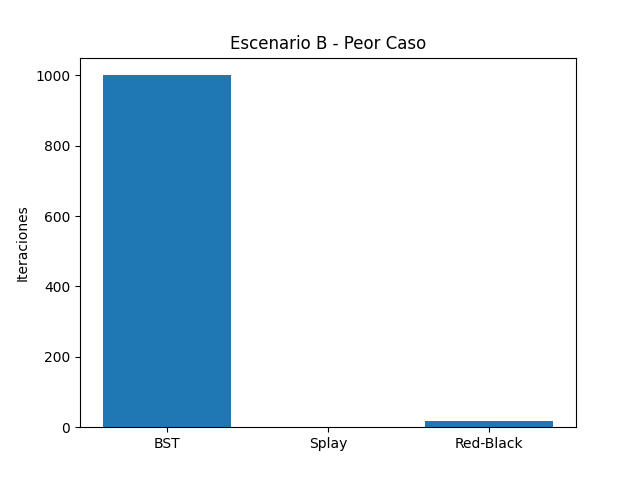
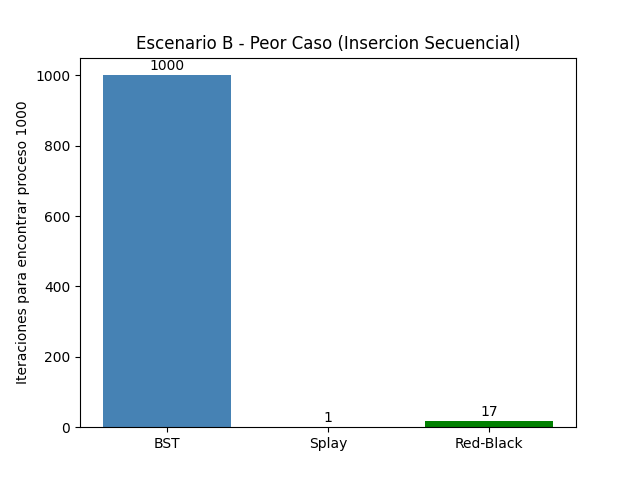
Grafica comparativa con promedios de los 3 escenarios y reemplazo de Graphviz por visualizacion con matplotlib para evitar dependencia externa

diff --git a/src/utils/visualization.py b/src/utils/visualization.py
@@ -1,40 +1,63 @@
 import matplotlib.pyplot as plt
-from graphviz import Digraph
+import matplotlib.patches as mpatches
+
+
+def _get_positions(node, x, y, gap, positions, edges, depth, max_depth, is_rb=False):
+    if node is None:
+        return
+    if is_rb and node.key is None:
+        return
+    if depth > max_depth:
+        return
+
+    positions[id(node)] = (x, y, node.key, getattr(node, "color", "BLUE"))
+
+    if node.left and (not is_rb or node.left.key is not None):
+        edges.append((x, y, x - gap, y - 1))
+        _get_positions(node.left, x - gap, y - 1, gap / 2,
+                       positions, edges, depth + 1, max_depth, is_rb)
+
+    if node.right and (not is_rb or node.right.key is not None):
+        edges.append((x, y, x + gap, y - 1))
+        _get_positions(node.right, x + gap, y - 1, gap / 2,
+                       positions, edges, depth + 1, max_depth, is_rb)
 
 
 def visualize_bst(tree, filename, title, is_rb=False):
-    dot = Digraph(comment=title)
-    dot.attr(rankdir="TB")
+    positions = {}
+    edges = []
 
-    def add_nodes(node, depth=0):
-        if node is None:
-            return
-        if is_rb and node.key is None:
-            return
-        if depth > 5:
-            return
+    _get_positions(tree.root, 0, 0, 8, positions, edges, 0, 5, is_rb)
 
-        label = str(node.key)
+    fig, ax = plt.subplots(figsize=(18, 8))
+    ax.set_title(title + " (primeros 6 niveles)", fontsize=13)
+    ax.axis("off")
+
+    for x1, y1, x2, y2 in edges:
+        ax.plot([x1, x2], [y1, y2], "k-", linewidth=0.8, zorder=1)
+
+    for node_id, (x, y, key, color) in positions.items():
         if is_rb:
-            color = "red" if node.color == "RED" else "black"
-            font_color = "white"
-            dot.node(str(id(node)), label, style="filled",
-                     fillcolor=color, fontcolor=font_color)
+            bg = "#c0392b" if color == "RED" else "#2c3e50"
+            text_color = "white"
         else:
-            dot.node(str(id(node)), label)
+            bg = "#2980b9"
+            text_color = "white"
 
-        if node.left:
-            if not is_rb or node.left.key is not None:
-                dot.edge(str(id(node)), str(id(node.left)))
-                add_nodes(node.left, depth + 1)
+        circle = plt.Circle((x, y), 0.35, color=bg, zorder=2)
+        ax.add_patch(circle)
+        ax.text(x, y, str(key), ha="center", va="center",
+                fontsize=6, color=text_color, zorder=3)
 
-        if node.right:
-            if not is_rb or node.right.key is not None:
-                dot.edge(str(id(node)), str(id(node.right)))
-                add_nodes(node.right, depth + 1)
+    if positions:
+        all_x = [v[0] for v in positions.values()]
+        all_y = [v[1] for v in positions.values()]
+        ax.set_xlim(min(all_x) - 1, max(all_x) + 1)
+        ax.set_ylim(min(all_y) - 1, max(all_y) + 1)
 
-    add_nodes(tree.root)
-    dot.render(f"results/{filename}", format="png", cleanup=True)
+    plt.tight_layout()
+    plt.savefig(f"results/{filename}.png", dpi=120)
+    plt.close()
     print(f"Arbol guardado en results/{filename}.png")
 
 
@@ -82,3 +105,42 @@ def plot_scenario_C(splay, rb):
 
     plt.savefig("results/scenario_C.png")
     plt.close()
+
+
+def plot_summary(promedios):
+    escenarios = [
+        "Escenario A\n(Aleatorio)", "Escenario B\n(Secuencial)", "Escenario C\n(Frecuente)"]
+    bst_vals = [promedios["A"]["bst"],   promedios["B"]
+                ["bst"],   promedios["C"]["bst"]]
+    splay_vals = [promedios["A"]["splay"], promedios["B"]
+                  ["splay"], promedios["C"]["splay"]]
+    rb_vals = [promedios["A"]["rb"],    promedios["B"]
+               ["rb"],    promedios["C"]["rb"]]
+
+    x = range(len(escenarios))
+    ancho = 0.25
+
+    fig, ax = plt.subplots(figsize=(10, 6))
+
+    barras_bst = ax.bar([i - ancho for i in x], bst_vals,
+                        width=ancho, label="BST",        color="steelblue")
+    barras_splay = ax.bar([i for i in x], splay_vals,
+                          width=ancho, label="Splay",       color="orange")
+    barras_rb = ax.bar([i + ancho for i in x], rb_vals,
+                       width=ancho, label="Red-Black",   color="green")
+
+    for barra in list(barras_bst) + list(barras_splay) + list(barras_rb):
+        altura = barra.get_height()
+        ax.text(barra.get_x() + barra.get_width() / 2, altura + 0.5,
+                f"{altura:.1f}", ha="center", va="bottom", fontsize=8)
+
+    ax.set_xticks(list(x))
+    ax.set_xticklabels(escenarios)
+    ax.set_ylabel("Iteraciones promedio")
+    ax.set_title("Comparacion de iteraciones promedio por arbol y escenario")
+    ax.legend()
+
+    plt.tight_layout()
+    plt.savefig("results/summary.png")
+    plt.close()
+    print("Grafica resumen guardada en results/summary.png")

diff --git a/src/main.py b/src/main.py
@@ -10,12 +10,13 @@ from utils.visualization import (
     plot_scenario_A,
     plot_scenario_B,
     plot_scenario_C,
+    plot_summary,
     visualize_bst
 )
 
 
 def scenario_A():
-    print("\nESCENARIO A: Llegada Aleatoria")
+    print("\n=== ESCENARIO A: Llegada Aleatoria ===")
 
     data = generate_random(1000)
 
@@ -40,18 +41,24 @@ def scenario_A():
         splay_steps.append(splay.search(x)[1])
         rb_steps.append(rb.search(x)[1])
 
+    prom_bst = average(bst_steps)
+    prom_splay = average(splay_steps)
+    prom_rb = average(rb_steps)
+
     print(
-        f"BST       -> promedio: {average(bst_steps):.2f} | min: {min_val(bst_steps)} | max: {max_val(bst_steps)}")
+        f"BST       -> promedio: {prom_bst:.2f} | min: {min_val(bst_steps)} | max: {max_val(bst_steps)}")
     print(
-        f"Splay     -> promedio: {average(splay_steps):.2f} | min: {min_val(splay_steps)} | max: {max_val(splay_steps)}")
+        f"Splay     -> promedio: {prom_splay:.2f} | min: {min_val(splay_steps)} | max: {max_val(splay_steps)}")
     print(
-        f"Red-Black -> promedio: {average(rb_steps):.2f} | min: {min_val(rb_steps)} | max: {max_val(rb_steps)}")
+        f"Red-Black -> promedio: {prom_rb:.2f} | min: {min_val(rb_steps)} | max: {max_val(rb_steps)}")
 
     plot_scenario_A(bst_steps, splay_steps, rb_steps)
 
+    return prom_bst, prom_splay, prom_rb
+
 
 def scenario_B():
-    print("\nESCENARIO B: Peor Caso (Insercion Secuencial)")
+    print("\n=== ESCENARIO B: Peor Caso (Insercion Secuencial) ===")
 
     data = generate_sorted(1000)
 
@@ -76,9 +83,11 @@ def scenario_B():
 
     plot_scenario_B(bst_result, splay_result, rb_result)
 
+    return float(bst_result), float(splay_result), float(rb_result)
+
 
 def scenario_C():
-    print("\nESCENARIO C: Acceso Frecuente")
+    print("\n=== ESCENARIO C: Acceso Frecuente ===")
 
     data = generate_random(1000)
 
@@ -98,18 +107,52 @@ def scenario_C():
         splay_steps.append(splay.search(target)[1])
         rb_steps.append(rb.search(target)[1])
 
+    prom_splay = average(splay_steps)
+    prom_rb = average(rb_steps)
+
     print(
-        f"Splay     -> promedio: {average(splay_steps):.2f} | min: {min_val(splay_steps)} | max: {max_val(splay_steps)}")
+        f"Splay     -> promedio: {prom_splay:.2f} | min: {min_val(splay_steps)} | max: {max_val(splay_steps)}")
     print(
-        f"Red-Black -> promedio: {average(rb_steps):.2f} | min: {min_val(rb_steps)} | max: {max_val(rb_steps)}")
+        f"Red-Black -> promedio: {prom_rb:.2f} | min: {min_val(rb_steps)} | max: {max_val(rb_steps)}")
 
     plot_scenario_C(splay_steps, rb_steps)
 
+    return prom_splay, prom_rb
+
 
 def main():
-    scenario_A()
-    scenario_B()
-    scenario_C()
+    print("Iniciando simulacion de arboles BST, Splay y Red-Black Tree\n")
+
+    promedios = {
+        "A": {"bst": 0, "splay": 0, "rb": 0},
+        "B": {"bst": 0, "splay": 0, "rb": 0},
+        "C": {"bst": 0, "splay": 0, "rb": 0},
+    }
+
+    try:
+        prom_bst, prom_splay, prom_rb = scenario_A()
+        promedios["A"] = {"bst": prom_bst, "splay": prom_splay, "rb": prom_rb}
+    except Exception as e:
+        print(f"Error en Escenario A: {e}")
+
+    try:
+        prom_bst, prom_splay, prom_rb = scenario_B()
+        promedios["B"] = {"bst": prom_bst, "splay": prom_splay, "rb": prom_rb}
+    except Exception as e:
+        print(f"Error en Escenario B: {e}")
+
+    try:
+        prom_splay, prom_rb = scenario_C()
+        promedios["C"] = {"bst": 0, "splay": prom_splay, "rb": prom_rb}
+    except Exception as e:
+        print(f"Error en Escenario C: {e}")
+
+    try:
+        plot_summary(promedios)
+    except Exception as e:
+        print(f"Error generando grafica resumen: {e}")
+
+    print("\nSimulacion completa. Revisa la carpeta results/ para ver las graficas.")
 
 
 if __name__ == "__main__":
